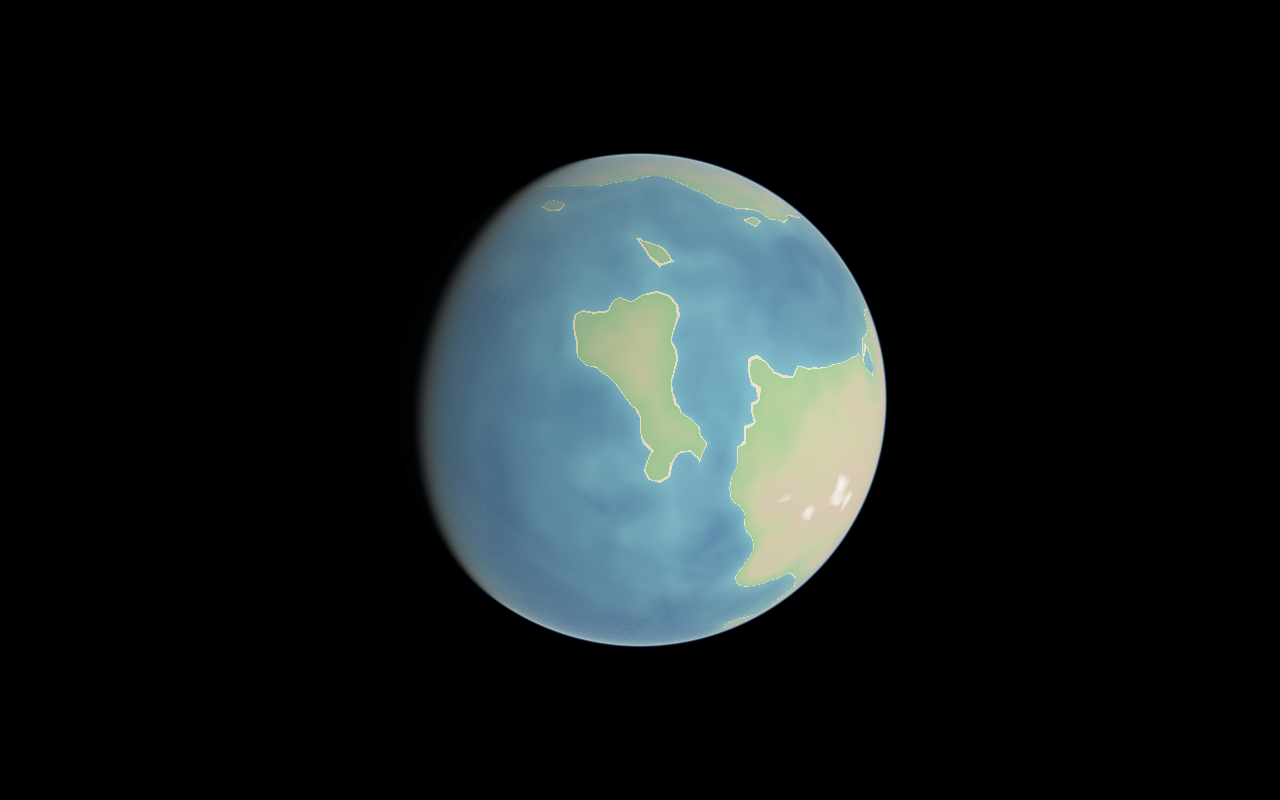
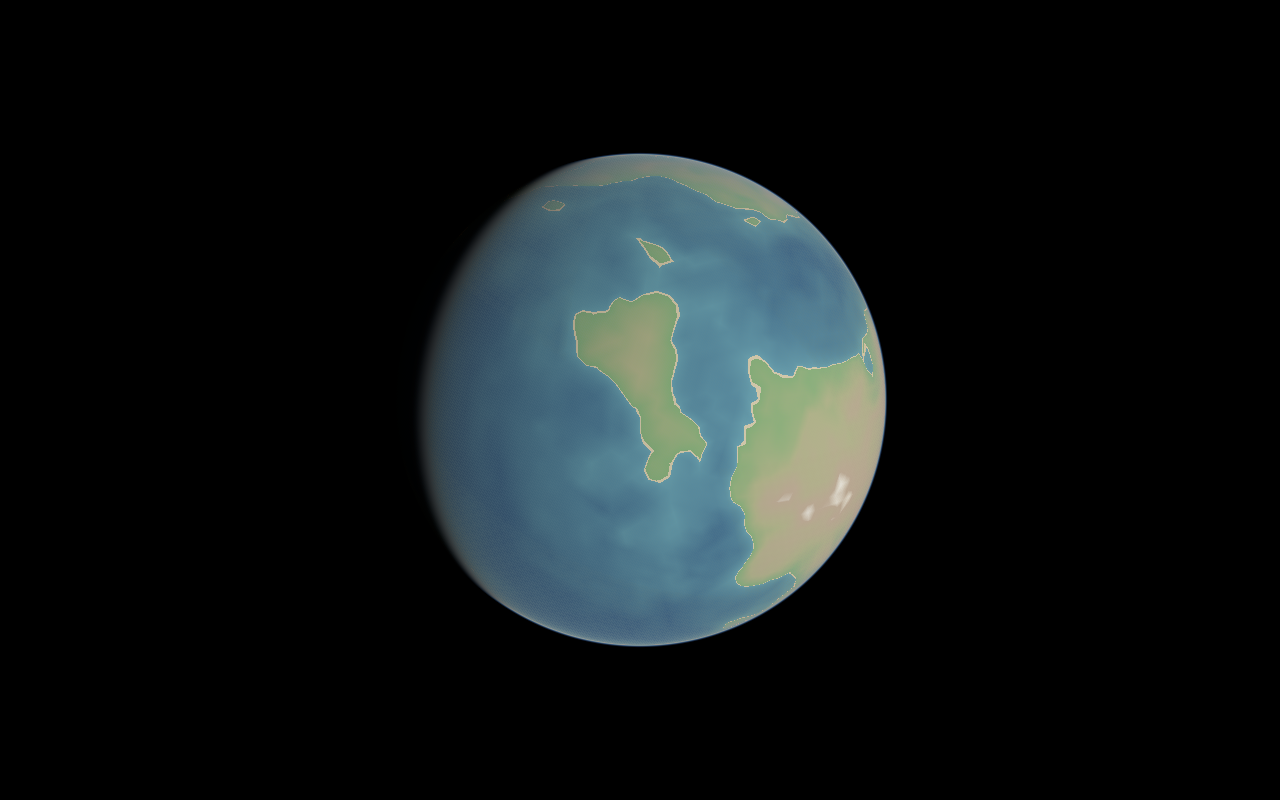
Fix sky blocks near the ground, lighten haze, and add air density

Changed region(s): [[0.3438, 0.1875, 0.7188, 0.8125]]

diff --git a/app/Sources/Shaders.swift b/app/Sources/Shaders.swift
@@ -4,11 +4,13 @@ using namespace metal;
 
 struct Uniforms {
     float4x4 viewProjection;
-    float4x4 inverseViewProjection;
+    float4 cameraRight;   // xyz: camera's right, w: tan(half the horizontal field of view)
+    float4 cameraUp;      // xyz: camera's up, w: tan(half the vertical field of view)
+    float4 cameraForward; // xyz: camera's view direction
     float4 sun;        // xyz: unit vector toward the sun
     float4 elevation;  // x: min, y: sea level, z: max (meters); w: 1 when drawing mesh edges
     float4 display;    // x: radii per meter of elevation, with exaggeration
-    float4 camera;     // xyz: position, in radii
+    float4 camera;     // xyz: position, in radii; w: the air's density, relative to Earth's
     float4 lod;        // x: pixels per radian, y: split threshold in pixels, z: 1 to blend levels,
                        // w: blend band, as a fraction of the threshold
     float4 atmosphere; // x: 1 when on, y: meters per radius for the air (see Atmosphere below),
@@ -112,9 +114,9 @@ static float rayHits(float3 origin, float3 direction, float radius) {
 }
 
 // Rayleigh and Mie densities, relative to sea level.
-static float2 airDensity(float3 p, float metersPerRadius) {
+static float2 airDensity(float3 p, float metersPerRadius, float scale) {
     float height = max(length(p) - 1, 0.0) * metersPerRadius;
-    return exp(-height / float2(rayleighHeight, mieHeight));
+    return scale * exp(-height / float2(rayleighHeight, mieHeight));
 }
 
 static float3 extinction(float2 opticalDepth) {
@@ -122,13 +124,13 @@ static float3 extinction(float2 opticalDepth) {
 }
 
 // The fraction of sunlight reaching p, through the air (none where the planet is in the way).
-static float3 sunTransmittance(float3 p, float3 sun, float4 atmosphere) {
+static float3 sunTransmittance(float3 p, float3 sun, float4 atmosphere, float density) {
     if (rayHits(p, sun, 0.999) > 0) return 0;
     float length = raySphere(p, sun, atmosphere.z).y;
     float ds = length / sunSteps;
     float2 depth = 0;
     for (int i = 0; i < sunSteps; i++) {
-        depth += airDensity(p + sun * (ds * (i + 0.5)), atmosphere.y) * ds * atmosphere.y;
+        depth += airDensity(p + sun * (ds * (i + 0.5)), atmosphere.y, density) * ds * atmosphere.y;
     }
     return extinction(depth);
 }
@@ -141,7 +143,7 @@ struct Scattering {
 // Scattering along the ray from origin in direction (unit), up to maxDistance.
 // `jitter` (0...1, varying by pixel) offsets the samples, trading banding for fine noise.
 static Scattering scatter(float3 origin, float3 direction, float maxDistance, float3 sun, float4 atmosphere,
-                          int viewSteps, float jitter) {
+                          int viewSteps, float jitter, float density) {
     Scattering result = { float3(0), float3(1) };
     float2 air = raySphere(origin, direction, atmosphere.z);
     float start = max(air.x, 0.0);
@@ -154,12 +156,12 @@ static Scattering scatter(float3 origin, float3 direction, float maxDistance, fl
     float3 mie = 0;
     for (int i = 0; i < viewSteps; i++) {
         float3 p = origin + direction * (start + ds * (i + jitter));
-        float2 density = airDensity(p, atmosphere.y) * ds * atmosphere.y;
-        depth += density * 0.5;
-        float3 light = extinction(depth) * sunTransmittance(p, sun, atmosphere);
-        depth += density * 0.5;
-        rayleigh += density.x * light;
-        mie += density.y * light;
+        float2 amount = airDensity(p, atmosphere.y, density) * ds * atmosphere.y;
+        depth += amount * 0.5;
+        float3 light = extinction(depth) * sunTransmittance(p, sun, atmosphere, density);
+        depth += amount * 0.5;
+        rayleigh += amount.x * light;
+        mie += amount.y * light;
     }
     float mu = dot(direction, sun);
     float rayleighPhase = 3 / (16 * M_PI_F) * (1 + mu * mu);
@@ -190,7 +192,7 @@ fragment float4 fragmentMain(Fragment in [[stage_in]], constant Uniforms &u [[bu
 
     // Sunlight through the air, a little skylight while the sun is up, and starlight.
     float3 up = normalize(in.world);
-    float3 sunlight = sunIntensity / M_PI_F * sunTransmittance(in.world, sun, u.atmosphere);
+    float3 sunlight = sunIntensity / M_PI_F * sunTransmittance(in.world, sun, u.atmosphere, u.camera.w);
     float skylight = sunIntensity / M_PI_F * 0.06 * smoothstep(-0.15, 0.3, dot(up, sun))
         * (0.6 + 0.4 * dot(n, up));
     float3 radiance = albedo * (sunlight * light + skylight + 0.02);
@@ -199,7 +201,7 @@ fragment float4 fragmentMain(Fragment in [[stage_in]], constant Uniforms &u [[bu
     float3 toSurface = in.world - u.camera.xyz;
     float distance = length(toSurface);
     Scattering air = scatter(u.camera.xyz, toSurface / distance, distance, sun, u.atmosphere, 12,
-                             pixelNoise(in.position.xy));
+                             pixelNoise(in.position.xy), u.camera.w);
     return float4(toneMap(radiance * air.transmittance + air.inscattered, u.atmosphere.w), 1);
 }
 
@@ -218,14 +220,16 @@ vertex SkyFragment skyVertex(uint id [[vertex_id]]) {
 }
 
 fragment float4 skyFragment(SkyFragment in [[stage_in]], constant Uniforms &u [[buffer(1)]]) {
-    float4 near = u.inverseViewProjection * float4(in.ndc, 1, 1);
-    float3 direction = normalize(near.xyz / near.w - u.camera.xyz);
+    // From the camera's basis rather than by unprojecting the near plane, which near the ground
+    // lies ~1e-6 radii away, too close to subtract the camera's position precisely.
+    float3 direction = normalize(u.cameraForward.xyz + in.ndc.x * u.cameraRight.w * u.cameraRight.xyz
+                                 + in.ndc.y * u.cameraUp.w * u.cameraUp.xyz);
     float3 sun = u.sun.xyz;
     float ground = rayHits(u.camera.xyz, direction, 1);
     float maxDistance = ground > 0 ? ground : 1e30;
     // More samples than for the terrain: rays along the limb are long, and the sky covers less.
     Scattering air = scatter(u.camera.xyz, direction, maxDistance, sun, u.atmosphere, 32,
-                             pixelNoise(in.position.xy));
+                             pixelNoise(in.position.xy), u.camera.w);
     // The sun's disk (about 0.5° across), dimmed by the air.
     float3 disk = ground > 0 ? 0 : float3(smoothstep(0.99996, 0.99998, dot(direction, sun)) * 40);
     return float4(toneMap(air.inscattered + disk * air.transmittance, u.atmosphere.w), 1);

diff --git a/app/Sources/Renderer.swift b/app/Sources/Renderer.swift
@@ -71,7 +71,9 @@ final class Renderer: NSObject, MTKViewDelegate {
 
     private struct Uniforms {
         var viewProjection: simd_float4x4
-        var inverseViewProjection: simd_float4x4
+        var cameraRight: SIMD4<Float>
+        var cameraUp: SIMD4<Float>
+        var cameraForward: SIMD4<Float>
         var sun: SIMD4<Float>
         var elevation: SIMD4<Float>
         var display: SIMD4<Float>
@@ -82,7 +84,7 @@ final class Renderer: NSObject, MTKViewDelegate {
 
     /// The air's thickness above sea level, in meters, and the exposure for its tone mapping.
     private static let atmosphereHeight: Float = 60_000
-    private static let exposure: Float = 0.45
+    private static let exposure: Float = 0.25
 
     private let skyPipeline: MTLRenderPipelineState
     private let skyDepthState: MTLDepthStencilState
@@ -329,13 +331,16 @@ final class Renderer: NSObject, MTKViewDelegate {
         let view = simd_float4x4(orientation.inverse) * simd_float4x4(translation: -position)
         let viewProjection = projection * view
         let pixelsPerRadian = viewportHeight / (2 * tan(fovY / 2))
+        let tanHalfY = tan(fovY / 2)
         var uniforms = Uniforms(
             viewProjection: viewProjection,
-            inverseViewProjection: viewProjection.inverse,
+            cameraRight: SIMD4(orientation.act(SIMD3(1, 0, 0)), tanHalfY * aspect),
+            cameraUp: SIMD4(orientation.act(SIMD3(0, 1, 0)), tanHalfY),
+            cameraForward: SIMD4(orientation.act(SIMD3(0, 0, -1)), 0),
             sun: SIMD4(planet.sunDirection(at: simulatedSeconds), 0),
             elevation: SIMD4(planet.minElevation, planet.seaLevel, planet.maxElevation, 0),
             display: SIMD4(scale, 0, 0, 0),
-            camera: SIMD4(position, 0),
+            camera: SIMD4(position, Float(planet.parameters.airDensity)),
             lod: SIMD4(pixelsPerRadian, patches.targetPixels, blendLevels ? 1 : 0, 0.5),
             // The air sees a planet of radius 1 / scale meters, so its thickness keeps its
             // proportion to the exaggerated relief.

diff --git a/app/Sources/LaunchOptions.swift b/app/Sources/LaunchOptions.swift
@@ -25,6 +25,7 @@ struct LaunchOptions {
           --tilt <degrees>       axial tilt (default 23.44)
           --day <× Earth>        day length (default 1)
           --year <× Earth>       year length (default 1)
+          --air <× Earth>        air density, for the atmosphere (default 1; 0 for none)
 
         Camera:
           --direction <x,y,z>    camera direction from the center (default 0,0,1)
@@ -61,7 +62,7 @@ struct LaunchOptions {
 
     private static let switches: Set = [
         "--seed", "--radius", "--exaggeration", "--region-scale", "--sea-level", "--tilt", "--day",
-        "--year", "--direction", "--distance", "--look-at", "--time", "--time-speed", "--mesh",
+        "--year", "--air", "--direction", "--distance", "--look-at", "--time", "--time-speed", "--mesh",
         "--lod-blend", "--atmosphere", "--snapshot",
         "--size", "--benchmark", "--video", "--duration", "--fps", "--bitrate",
     ]
@@ -124,6 +125,7 @@ struct LaunchOptions {
         number("--tilt") { parameters.axialTilt = $0 }
         number("--day") { parameters.dayLength = $0 }
         number("--year") { parameters.yearLength = $0 }
+        number("--air") { parameters.airDensity = max($0, 0) }
 
         timeSpeed = value("--time-speed").flatMap(Double.init)
         showMesh = value("--mesh") == "on"

diff --git a/app/Sources/ParameterPanel.swift b/app/Sources/ParameterPanel.swift
@@ -37,6 +37,7 @@ struct ParameterPanel: View {
                 row("Axial tilt (°)", $parameters.axialTilt, .linear(0...90))
                 row("Day length (× Earth)", $parameters.dayLength, .logarithmic(0.01...100))
                 row("Year length (× Earth)", $parameters.yearLength, .logarithmic(0.01...100))
+                row("Air density (× Earth)", $parameters.airDensity, .logarithmic(0.01...100))
             }
             .textFieldStyle(.roundedBorder)
             .labelsHidden()

diff --git a/app/Sources/Planet.swift b/app/Sources/Planet.swift
@@ -10,6 +10,8 @@ struct PlanetParameters: Equatable {
     var axialTilt = 23.44
     var dayLength = 1.0
     var yearLength = 1.0
+    /// The air's density relative to Earth's (display only, for now).
+    var airDensity = 1.0
 
     /// These parameters with Earth's values, keeping the seed.
     var earthlike: PlanetParameters {

diff --git a/AGENTS.md b/AGENTS.md
@@ -37,6 +37,7 @@ Entered on an in-window panel (not a modal sheet, so menus such as Quit stay usa
 * axial tilt (degrees)
 * day length (relative to Earth)
 * year length (relative to Earth)
+* air density (relative to Earth; 0 for none), used only by the atmosphere so far
 
 ## Viewer
 
@@ -70,11 +71,11 @@ Entered on an in-window panel (not a modal sheet, so menus such as Quit stay usa
 
 ## Atmosphere
 
-* single scattering, raymarched in the shaders, with Earth's Rayleigh (8 km scale height) and Mie (1.2 km, g = 0.8) coefficients, up to 60 km; sunlight reaching each sample is attenuated through the air (6 steps) and blocked by the planet
+* single scattering, raymarched in the shaders, with Earth's Rayleigh (8 km scale height) and Mie (1.2 km, g = 0.8) coefficients, scaled by the air density parameter, up to 60 km; sunlight reaching each sample is attenuated through the air (6 steps) and blocked by the planet
 * the air sees a planet whose radius is the true radius divided by the exaggeration, so its thickness keeps its proportion to the exaggerated relief while its vertical optical depth stays Earth's
 * terrain: lit by sunlight through the air, a little skylight while the sun is up, and starlight; then aerial perspective (haze) along the view ray (12 steps)
-* sky: a full-screen pass at the far plane, drawn after the terrain where only the background remains (32 steps), with the sun's disk
-* samples are offset per pixel by interleaved gradient noise, trading banding for fine noise; radiance is tone-mapped (1 − e^(−0.45·L))
+* sky: a full-screen pass at the far plane, drawn after the terrain where only the background remains (32 steps), with the sun's disk; view directions come from the camera's basis and field of view, since unprojecting the near plane (~1e-6 radii away near the ground) loses precision and breaks the sky into blocks
+* samples are offset per pixel by interleaved gradient noise, trading banding for fine noise; radiance is tone-mapped (1 − e^(−0.25·L))
 * H (or `--atmosphere on|off`) toggles it (default on); off renders exactly as before
 
 ## Elevation (placeholder until tectonics)
